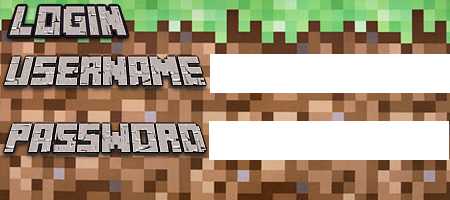
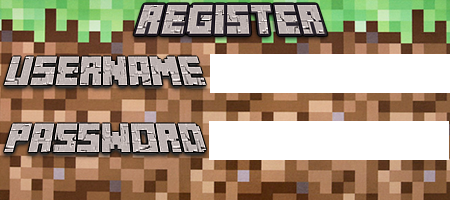
基本图像完成

Changed region(s): [[0.0, 0.0, 0.7467, 0.21]]

diff --git a/Run-Steve/main.cpp b/Run-Steve/main.cpp
@@ -65,6 +65,7 @@ void menuPage()
 	IMAGE lRegister_1;
 	IMAGE lStart_1;
 	IMAGE loginPage;
+	IMAGE registerPage;
 
 	char file_name[128];
 	IMAGE menuPageVideoImage[menuPageVideoNum];
@@ -91,11 +92,13 @@ void menuPage()
 	loadimage(&lRegister_1, _T("../image/title/lregister_1.png"));
 	loadimage(&lStart_1, _T("../image/title/lstart_1.png"));
 	loadimage(&loginPage, _T("../image/title/loginpage.png"));
+	loadimage(&registerPage, _T("../image/title/registerpage.png"));
 
 	int num = 0;
 	ExMessage msg;
 	bool loginPageFlag = 0;
-	bool loginPasswordFlag = 0;
+	bool registerPageFlag = 0;
+	bool loginOrRegisterPasswordFlag = 0;
 	int startTime;
 	int freamTime;
 
@@ -132,6 +135,7 @@ void menuPage()
 			if (msg.message == WM_LBUTTONDOWN)
 			{
 				loginPageFlag = 1;
+				registerPageFlag = 0;
 			}
 			else
 			{
@@ -148,8 +152,16 @@ void menuPage()
 		}
 		if (imageButtonDetect(registerLocate, register1, msg))
 		{
-			putimage(registerLocate.x, registerLocate.y, &lRegister_1, SRCAND);
-			putimage(registerLocate.x, registerLocate.y, &lRegister, SRCPAINT);
+			if (msg.message == WM_LBUTTONDOWN)
+			{
+				registerPageFlag = 1;
+				loginPageFlag = 0;
+			}
+			else
+			{
+				putimage(registerLocate.x, registerLocate.y, &lRegister_1, SRCAND);
+				putimage(registerLocate.x, registerLocate.y, &lRegister, SRCPAINT);
+			}
 		}
 		else
 		{
@@ -158,8 +170,10 @@ void menuPage()
 		}
 		putimage(runSteveLovate.x, runSteveLovate.y, &runSteve_1, SRCAND);
 		putimage(runSteveLovate.x, runSteveLovate.y, &runSteve, SRCPAINT);
-		if(loginPageFlag)
-			loginAndRegisterPage(loginPageFlag, loginPasswordFlag, loginPage, msg, user);
+		if (loginPageFlag)
+			loginAndRegisterPage(loginPageFlag, loginOrRegisterPasswordFlag, loginPage, msg, user);
+		else if (registerPageFlag)
+			loginAndRegisterPage(registerPageFlag, loginOrRegisterPasswordFlag, registerPage, msg, user);
 
 		EndBatchDraw();
 
